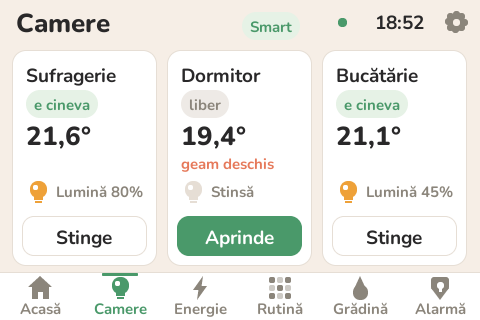
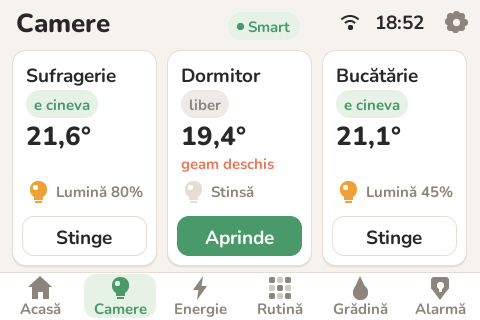
panou: ecranul Acasa refacut, umbre fine, treceri si bara bateriei animata
- insigna (preincalzire / geam deschis) are randul ei, nu mai calca peste temperatura
- randuri egale pe Acasa, fasia cu ultima decizie chiar deasupra filelor
- fila deschisa sta pe o pastila verde, Wi-Fi desenat ca iconita
- punctul din pastila Smart pulseaza
- o stare noua apare in 200 ms, bara bateriei aluneca in 0,5 s
- pe cardul mic alarma scrie scurt (Armata (plecat) iesea din card)
- Energie: procentul bateriei nu mai calca pe marginea umplerii

Changed region(s): [[0.1562, 0.8438, 0.3438, 1.0], [0.4688, 0.0625, 0.625, 0.125], [0.6875, 0.0312, 0.75, 0.0938]]

diff --git a/panou/ui.h b/panou/ui.h
@@ -5,11 +5,13 @@
 #include "ecran.h"
 using lgfx::textdatum_t;
 
-// culori calde, de casa (RGB565)
+// culori calde, de casa (RGB565: rosu si albastru din 8 in 8, verde din 4 in 4)
 #define RGB(r, g, b) (uint16_t)((((r) & 0xF8) << 8) | (((g) & 0xFC) << 3) | ((b) >> 3))
-#define C_FUNDAL      RGB(0xF4, 0xEF, 0xE6)   // crem
+#define C_FUNDAL      RGB(0xF0, 0xF0, 0xE8)   // alb-gri cald
 #define C_CARD        RGB(0xFF, 0xFF, 0xFF)
-#define C_MARGINE     RGB(0xE6, 0xDF, 0xD3)
+#define C_MARGINE     RGB(0xE0, 0xDC, 0xD0)
+#define C_UMBRA       RGB(0xE0, 0xDC, 0xD0)   // umbra subtire de sub carduri
+#define C_UMBRA2      RGB(0xE8, 0xE8, 0xE0)
 #define C_TEXT        RGB(0x2B, 0x2A, 0x28)
 #define C_TEXT2       RGB(0x8A, 0x85, 0x7C)
 #define C_VERDE       RGB(0x4C, 0x9A, 0x6A)
@@ -55,6 +57,8 @@ void adaugaZona(int x, int y, int w, int h, uint8_t id);
 void stergeZona(uint8_t id);
 bool schimbat(uint8_t slot, const String &semnatura);
 uint16_t amesteca(uint16_t a, uint16_t b, uint8_t cat);
+float usor(float t);
+extern bool animatie;
 
 // iconite desenate din forme simple
 void iconCasa(int cx, int cy, uint16_t c, uint16_t fundal);
@@ -66,6 +70,7 @@ void iconScut(int cx, int cy, uint16_t c, uint16_t fundal);
 void iconSoare(int cx, int cy, uint16_t c, uint16_t fundal);
 void iconVant(int cx, int cy, uint16_t c);
 void iconRotita(int cx, int cy, uint16_t c, uint16_t fundal);
+void iconWifi(int cx, int cy, uint16_t c);
 
 void schimbaEcran(EcranUI e);
 void deschidePin();

diff --git a/docs/cum-functioneaza-codul.md b/docs/cum-functioneaza-codul.md
@@ -144,7 +144,7 @@ Setările, PIN-ul, codurile senzorilor și rutina, în EEPROM. Scriem doar ce s-
 | [`retea.ino`](../panou/retea.ino) | Wi-Fi; dacă nu merge, rețeaua proprie `NEPHA-casa`; ora de pe internet |
 | [`web.ino`](../panou/web.ino) | pagina casei și API-ul ei (`/api/stare`, `/api/jurnal`, `/api/istoric`, `/api/rutina`, `/api/comanda`) |
 | [`istoric.ino`](../panou/istoric.ino) | câte un punct la 5 minute, pentru grafic |
-| [`ui.ino`](../panou/ui.ino) + `ui_*.ino` | ecranele; fiecare are `desen...()` și `atinge...()`; se redesenează doar cardurile care s-au schimbat |
+| [`ui.ino`](../panou/ui.ino) + `ui_*.ino` | ecranele; fiecare are `desen...()` și `atinge...()`; se redesenează doar cardurile care s-au schimbat. Animațiile (o stare nouă apare în 200 ms, bara bateriei alunecă în 0,5 s, punctul din „Smart” pulsează) sunt cadre scurte, desenate la ~30 ms, așa că nu opresc citirea mesajelor de la Arduino |
 | [`sunet.ino`](../panou/sunet.ino) | bipuri, sirena, LED-ul RGB |
 
 Fonturile cu diacritice sunt făcute din Nunito cu [`unelte/fonturi_vlw.py`](../unelte/fonturi_vlw.py).
